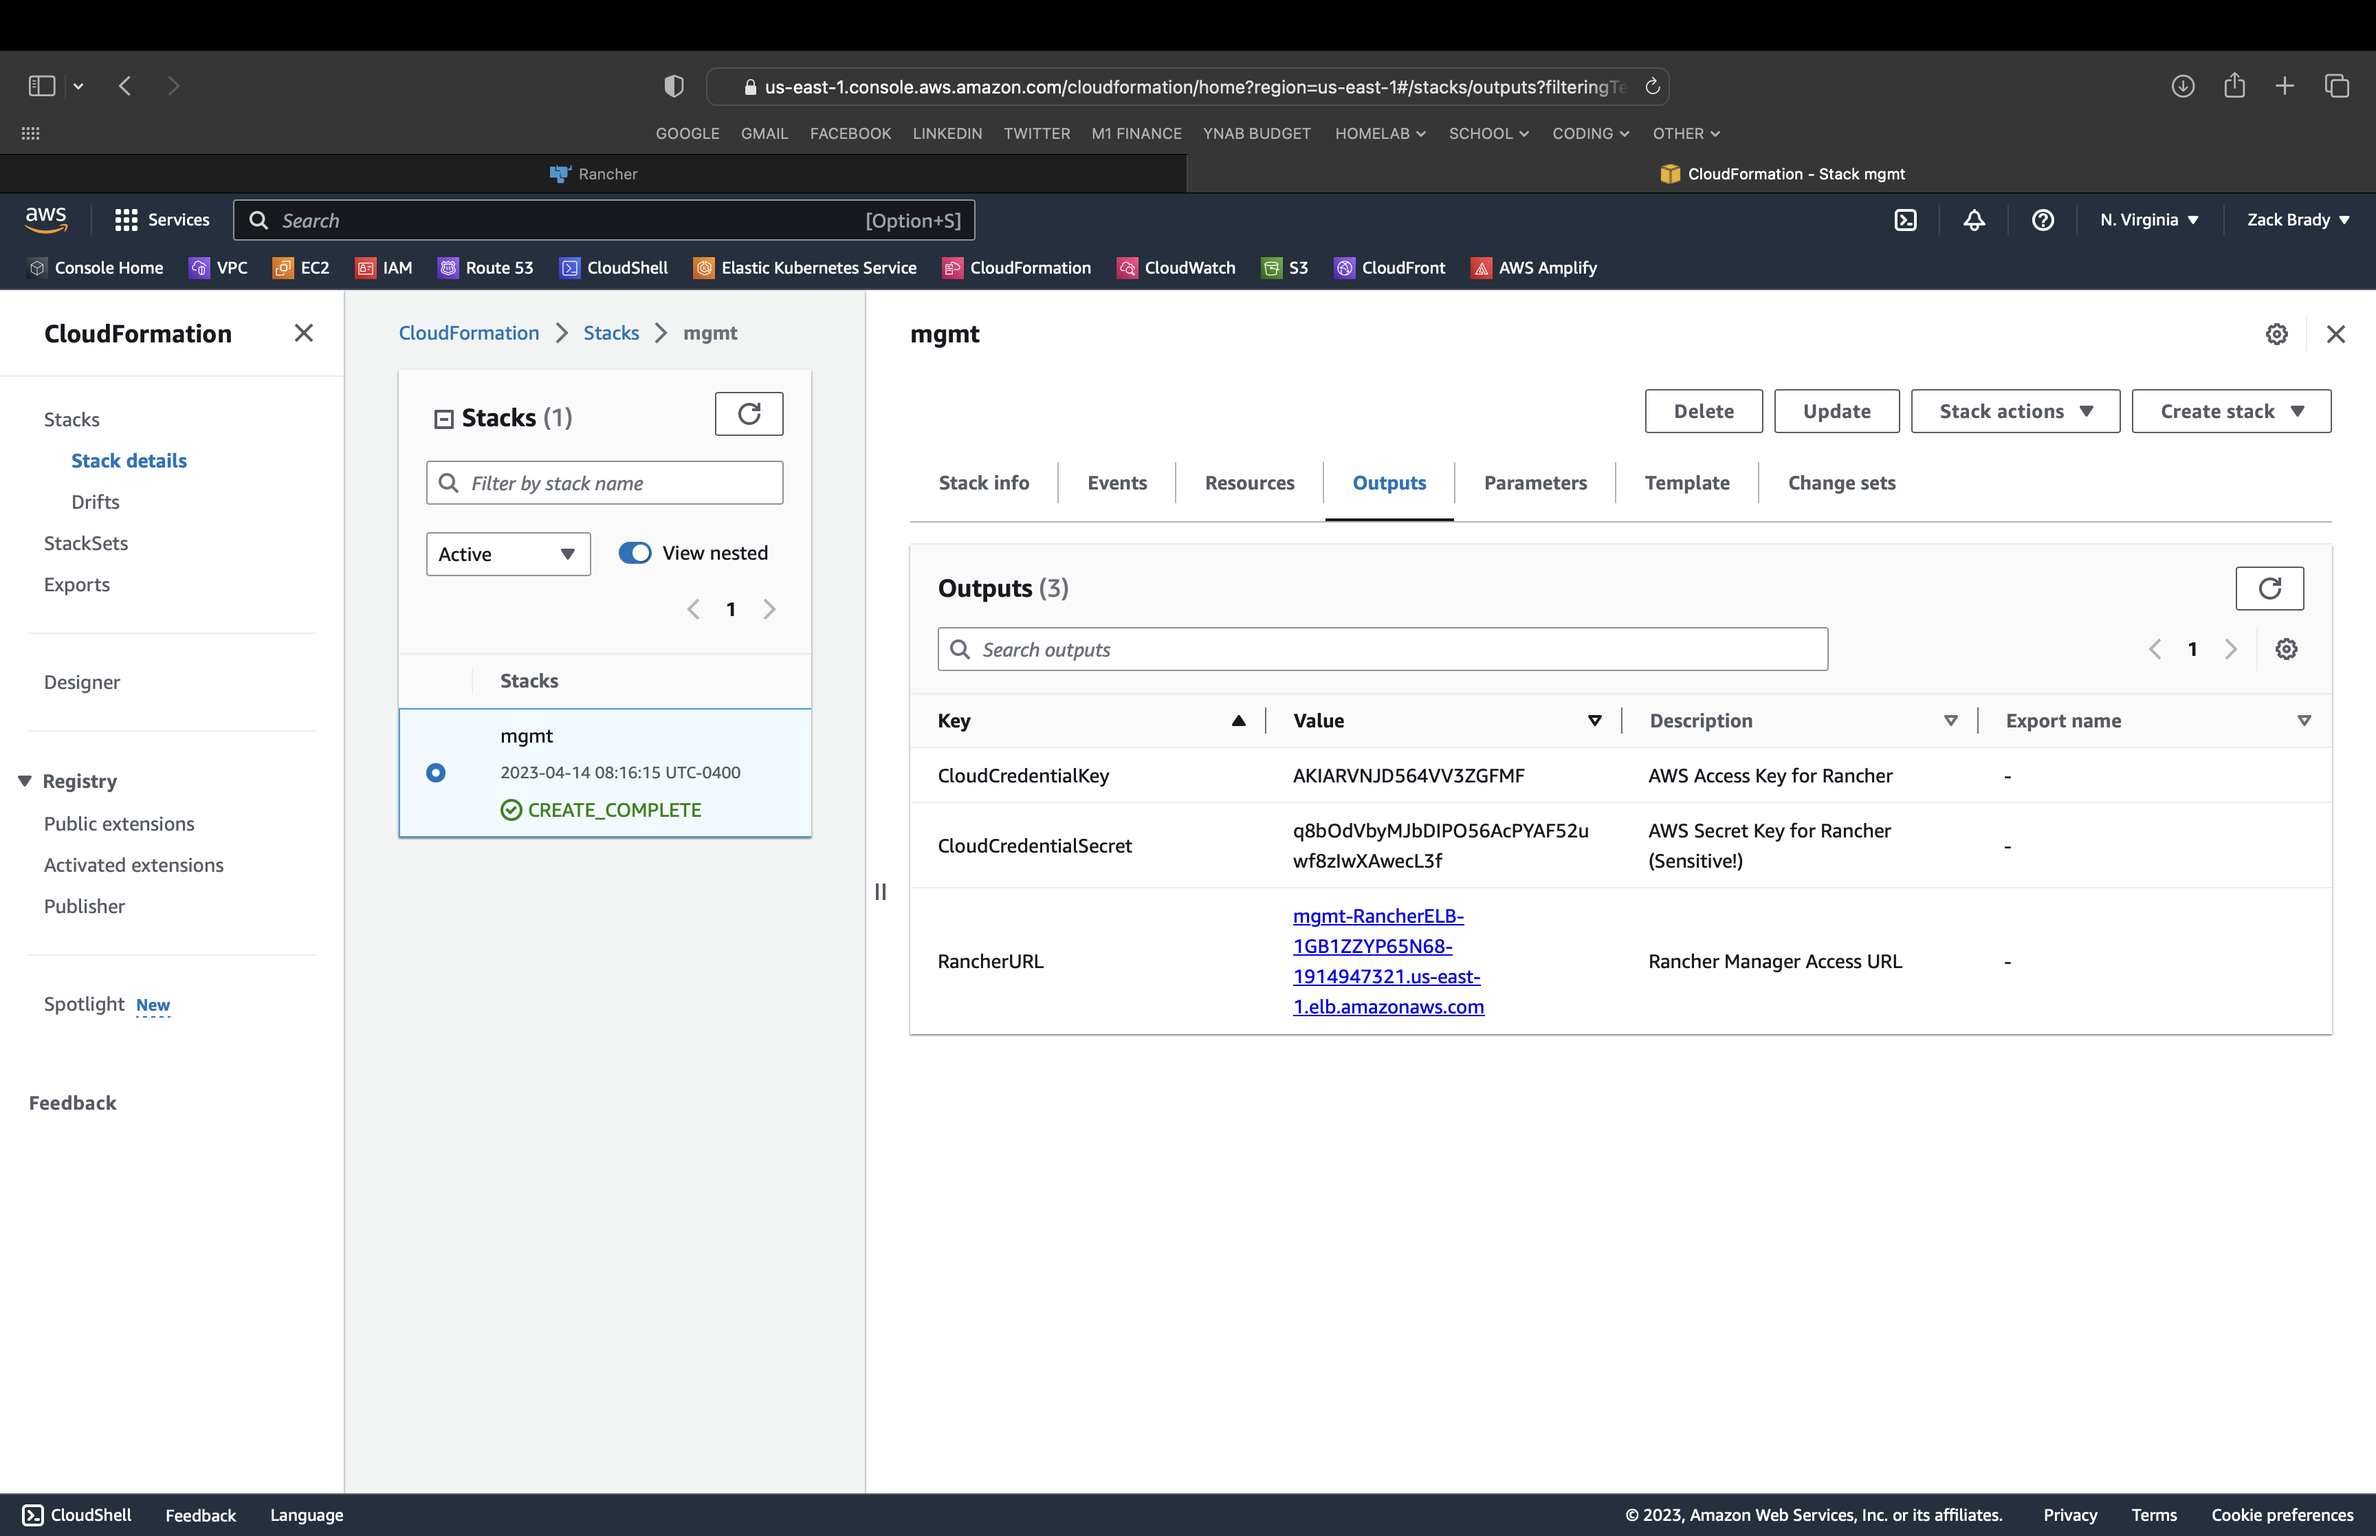
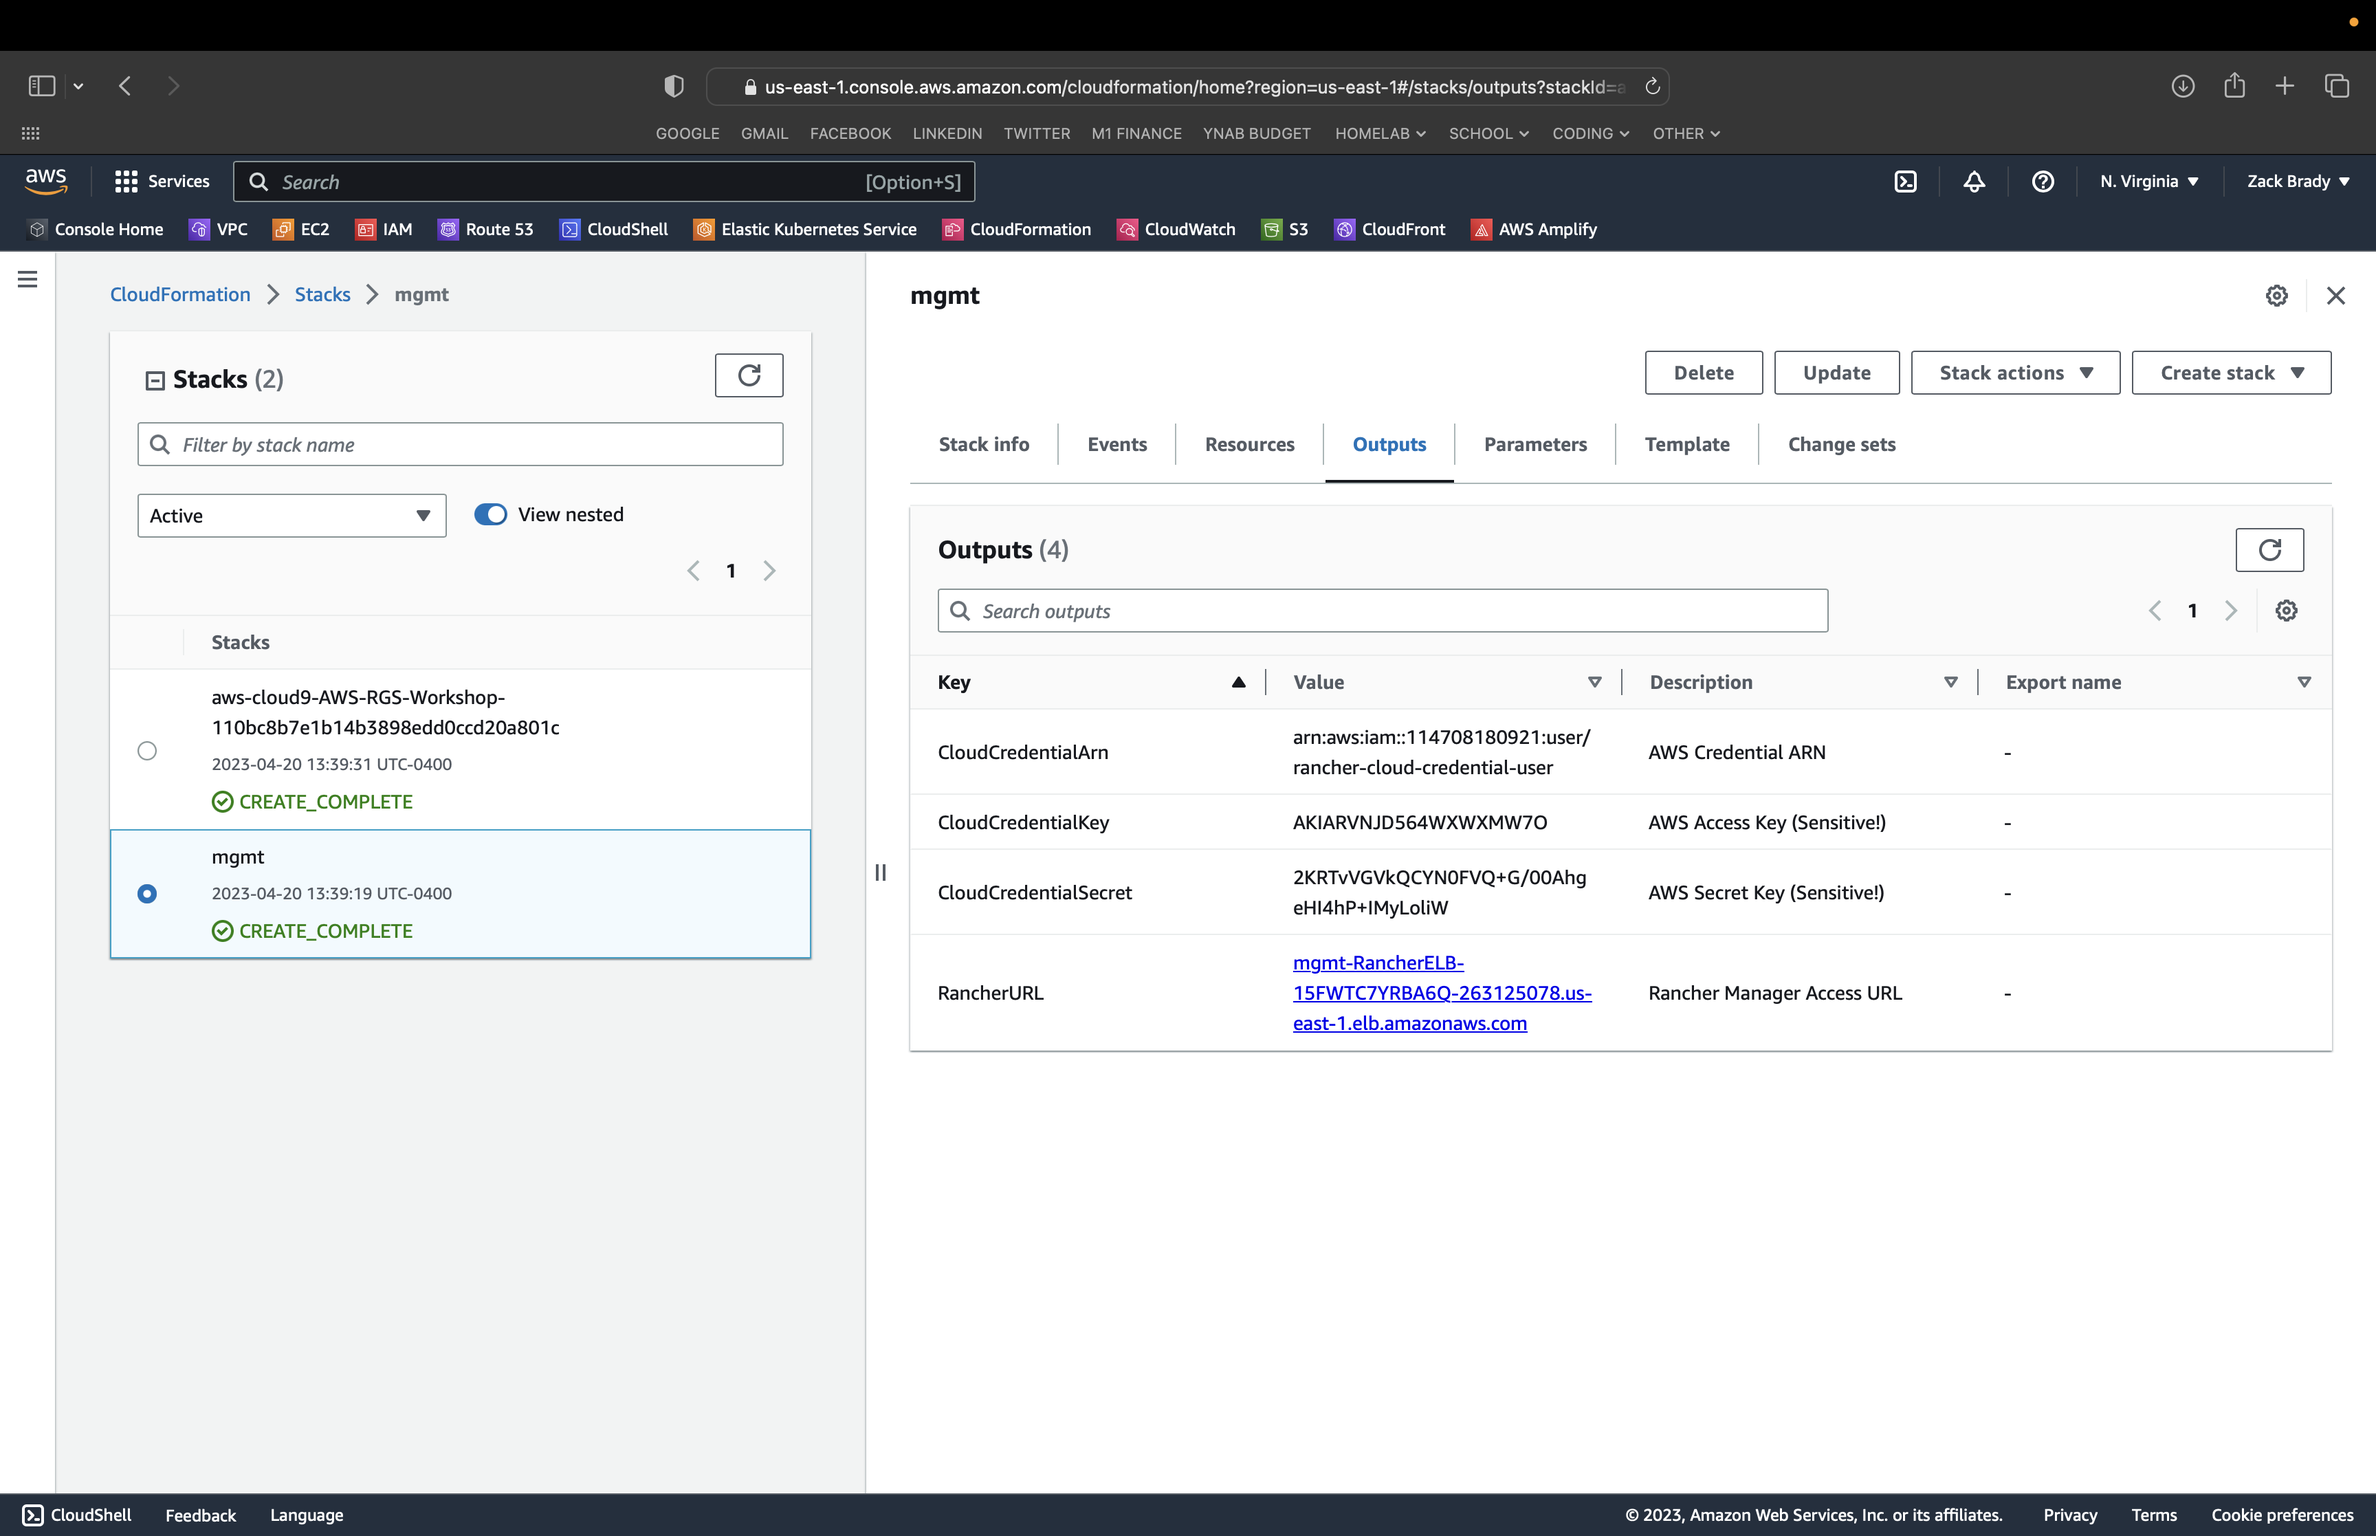
eks updates

diff --git a/content/40-importing-a-cluster/41-importing-the-cluster/index.en.md b/content/40-importing-a-cluster/41-importing-the-cluster/index.en.md
@@ -17,12 +17,63 @@ weight: 41
 ![rancher-cluster-home](/static/images/content/41-cluster-home.png)
 
 
+## Cloud Credentials
+
+### Step 1:
+
+![rancher-cluster-creds-cf](/static/images/content/41-cluster-creds-cf.png)
+
+
+### Step 2:
+
+![rancher-cluster-creds-cloudshell](/static/images/content/41-cluster-creds-cloudshell.png)
+
+
 ### Step 3:
+
+```
+aws sts get-caller-identity
+```
+
+![rancher-cluster-creds-cloudshell-1](/static/images/content/41-cluster-creds-cloudshell-1.png)
+
+
+### Step 4:
+
+```
+aws eks update-kubeconfig --region us-east-1 --name eks-cluster
+```
+```
+kubectl get nodes -o wide
+```
+
+![rancher-cluster-creds-cloudshell-2](/static/images/content/41-cluster-creds-cloudshell-2.png)
+
+
+### Step 5:
+
+```
+kubectl edit -n kube-system configmap/aws-auth
+```
+
+```bash
+  mapUsers: |
+    - groups:
+      - system:masters
+      userarn: arn:aws:iam::114708180921:user/rancher-cloud-credential-user
+      username: rancher
+```
+
+![rancher-cluster-creds-cloudshell-3](/static/images/content/41-cluster-creds-cloudshell-3.png)
+
+## Importing the Cluster
+
+### Step 1:
 
 ![rancher-cluster-import-options](/static/images/content/41-cluster-import-options.png)
 
 
-### Step 4:
+### Step 2:
 
 ![rancher-cluster-import-eks](/static/images/content/41-cluster-import-eks.png)
 
@@ -43,11 +94,21 @@ weight: 41
 ![rancher-cluster-import-eks-cluster](/static/images/content/41-cluster-import-eks-cluster.png)
 
 
-### Step 5:
+### Step 3:
 
 ![rancher-cluster-import-eks-success](/static/images/content/41-cluster-import-eks-success.png)
 
 
-### Step WIP:
+### Step 4:
 
-### WIP - EKS STEPS HERE ###
+![rancher-cluster-import-eks-success-details](/static/images/content/41-cluster-import-eks-success-details.png)
+
+
+### Step 5:
+
+![rancher-cluster-import-eks-successful](/static/images/content/41-cluster-import-eks-successful.png)
+
+
+### Step 6:
+
+![rancher-cluster-import-eks-success](/static/images/content/41-cluster-import-eks-details.png)

diff --git a/content/30-creating-a-cluster/31-creating-the-cluster/index.en.md b/content/30-creating-a-cluster/31-creating-the-cluster/index.en.md
@@ -87,7 +87,7 @@ weight: 31
 <pre>
 <b>pool2</b>
 
-<b>Pool Name:</b> cp-nodes
+<b>Pool Name:</b> wk-nodes
 
 <b>Machine Count:</b> 3
 
